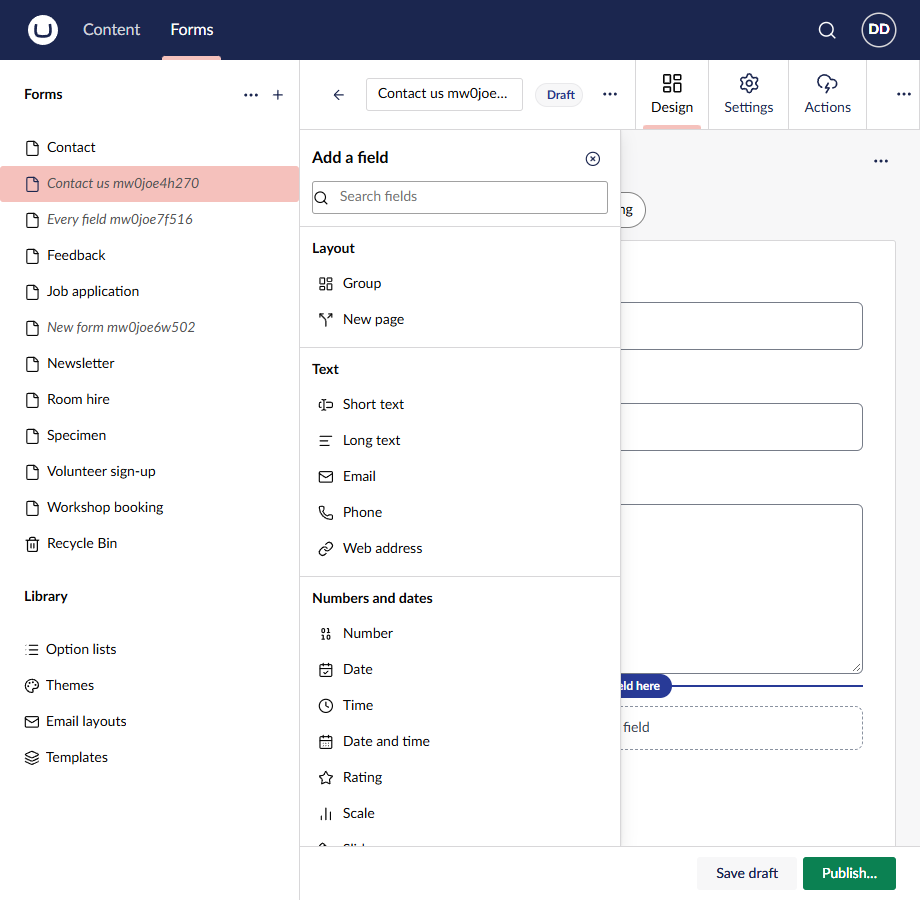
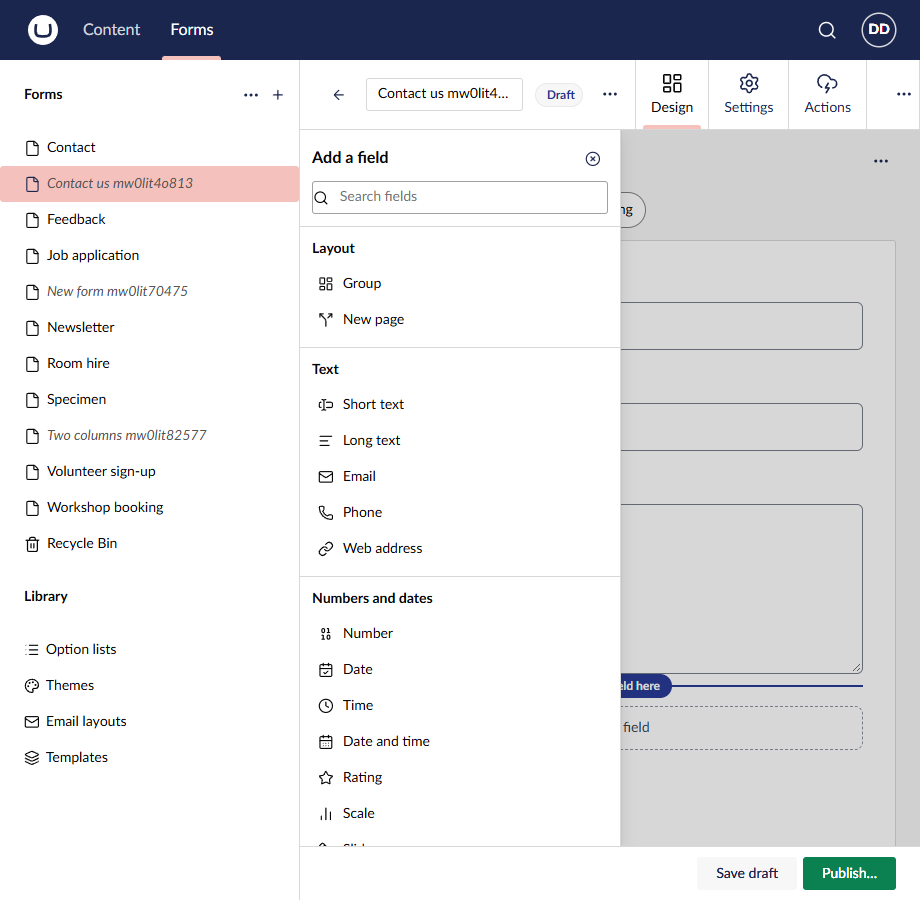
docs(designer): the 9.3 review's reader findings and tamper round
The review records what a reader of the diff found and how each was
fixed, the tamper round in a clone, and the shots the fixes changed;
ADR-0168 and the tests' guide say how the palette, labels, pages
without fields and the delete toast now behave.

diff --git a/docs/ux/review-9.3.md b/docs/ux/review-9.3.md
@@ -19,7 +19,7 @@ made through the APIs.
 | [a new form](review-9.3/empty-form-1440.png) | one sentence pointing to the palette and to pasting questions, Add field, and Send |
 | [pasting questions](review-9.3/paste-1440.png) · [the result](review-9.3/pasted-1440.png) | one line per question, the guessed types in a table before anything is added; the five fields, the last one selected |
 | [an empty later page](review-9.3/empty-page-1440.png) | the new page selected with its Duplicate and Delete, its own sentence, Send and Back |
-| [the contact form](review-9.3/designer-1440.png) · [a field selected](review-9.3/selected-1440.png) | the default theme on a white sheet, the steps, the width switch; the selected field's outline and its two tools |
+| [the contact form](review-9.3/designer-1440.png) · [a field selected](review-9.3/selected-1440.png) · [in two columns](review-9.3/selected-columns-1440.png) | the default theme on a white sheet, the steps, the width switch; the selected field's outline and its two tools |
 | [an insert point](review-9.3/insert-point-1440.png) | "Add a field here" on the line between two fields, on hover and on focus |
 | [a label in place](review-9.3/label-in-place-1440.png) | the label's box where the label was, its text chosen |
 | [the canvas's "…"](review-9.3/menu-1440.png) | Undo and Redo with their shortcuts, off while there is nothing to undo |
@@ -28,7 +28,7 @@ made through the APIs.
 | [the palette folded](review-9.3/palette-rail-1440.png) | the rail with its expand button and search; the canvas takes the room, and "Narrowed to fit" goes |
 | [Delete with Undo](review-9.3/delete-undo-1440.png) | the toast, and the selection on the next field |
 | [every field: choices](review-9.3/sink-choices-1440.png) · [rows](review-9.3/sink-rows-1440.png) · [files](review-9.3/sink-files-1440.png) · [a repeatable group](review-9.3/sink-repeater-1440.png) | two columns whose labels, help and controls line up; the drop frame and the pad as visitors with JavaScript see them; the group's first row with its own fields |
-| [at 920 px](review-9.3/designer-920.png) · [the palette over the canvas](review-9.3/palette-over-920.png) | the narrowest workspace: the canvas alone, the palette opened from Add field with the insert point it will fill |
+| [at 920 px](review-9.3/designer-920.png) · [the palette over the canvas](review-9.3/palette-over-920.png) | the narrowest workspace: the canvas alone; the palette opened from Add field over a scrim, with the insert point it will fill |
 | [dark](review-9.3/designer-dark-1440.png) · [high contrast](review-9.3/designer-high-contrast-1440.png) | Umbraco's two other themes around the visitor's white sheet |
 | [the gallery](review-9.3/gallery-1440.png) | a template drawn by the same preview as the canvas |
 
@@ -39,9 +39,9 @@ made through the APIs.
   none.
 - **The bundled detector** (`impeccable detect --json`) on the canvas, a canvas field, their styles, the palette, the paste dialog,
   the Design view and the preview: `[]` for each.
-- **The journeys** of `designer.spec.ts`: a form of three pages built with the mouse, five fields from a pasted list, and the
-  narrowest workspace with its skip link, its palette over the canvas and Delete with Undo; the gallery's journeys in
-  `library.spec.ts`.
+- **The journeys** of `designer.spec.ts`: a form of three pages built with the mouse, five fields from a pasted list, fields
+  side by side each selected by a click, and the narrowest workspace with its skip link, its palette over the canvas and
+  Delete with Undo; the gallery's journeys in `library.spec.ts`.
 - **The themes' specs** lay the server's sink out in the default and the bootstrap5 theme and check that fields side by side share
   their rows (the finding below).
 
@@ -85,6 +85,36 @@ Kept as they are:
 | — | the insert point fades in over 120 ms with a strong ease-out, and not at all for reduced motion | it appears on every hover between fields, tens of times a minute: fast, and only opacity |
 | — | selecting, editing a label in place, switching widths and pages: no motion | keyboard-heavy actions repeated all day; animation would make them feel late |
 | — | the toast is Umbraco's own | the backoffice's notifications move as Umbraco's do |
+
+## A reader's review
+
+A reader who had not built the step read its diff for defects. Each finding below was traced in the code, fixed and given a
+test:
+
+| Finding | What was done |
+| --- | --- |
+| The delete toast's Undo took back whatever came last: a delete, then Ctrl+D, then Undo removed the duplicate and left the field deleted | the toast's Undo takes back its delete only while that is still the last change, and the next change closes the toast |
+| The theme's new start alignment reached the canvas's control layer, which then had no height in a group of two columns | the layer covers its field whatever a theme aligns the parts by; a journey selects both fields of a two-column group by a click ([the shot](review-9.3/selected-columns-1440.png)) |
+| F2 on a heading without text hid the field's button and left nothing to edit or focus | a heading without text is not edited in place, and an edit where no label shows ends at once |
+| Deleting a page's last field left the selection on a group the canvas doesn't draw, and the focus on nothing | the selection is let go and the focus goes to Add field; a page with more than one group, or a titled one, shows its groups |
+| Closing the palette over the canvas, or folding the palette, dropped the focus, and with it the view's shortcuts | Esc, Close and a click beside the palette give the focus back to what opened it; folding puts it on the rail |
+| Tab from the palette over the canvas went on to controls lying under it | the canvas is out of reach while the palette lies on it, under a light scrim ([the shot](review-9.3/palette-over-920.png)) |
+| A label written for screen readers only was edited inside its one-pixel box | it shows while it is edited |
+| The edit box started from and wrote the default text while the canvas showed another culture's | it starts from and writes back the text the canvas shows |
+| The paste dialog's help never reached screen readers through UUI's box | the dialog uses the browser's own box with its label and help ([the shot](review-9.3/paste-1440.png)) |
+| A canvas or gallery preview that couldn't be loaded showed a loader for ever | each says so; the canvas offers Try again |
+| A canvas put back in the page stopped measuring its width; each image read made another media repository | both fixed |
+
+## The tamper round
+
+Each check was tampered with in a throwaway clone, and a named test had to fail: 18 changes to the designer's code against its
+Vitest files (four first slipped through and their tests now name the value: a selected field's `aria-current`, a slider's start
+between two steps as near, the 50 pasted lines, an import of the views without `from`), 6 to the canvas endpoint against its
+integration tests and the permission matrix (three first did not compile and were written again so that they did), and 6
+built into the client against the journeys and the themes' specs. Holding a theme's parts to their own heights first slipped
+through in bootstrap5, whose lists keep their height in a stretched wrapper; the themes' specs now also hold an email box
+beside a long text to a box's height, which both themes would stretch. The canvas's controls losing their height under a
+theme's alignment made the two-column journey fail, as the reader had expected.
 
 ## Left for later steps
 

diff --git a/docs/decisions/0168-the-canvas-draws-with-the-elements-views.md b/docs/decisions/0168-the-canvas-draws-with-the-elements-views.md
@@ -74,16 +74,21 @@ For the theme:
   IA 5.1 is updated to say so.
 - **Widths.** Desktop 960 px, Tablet 768 px and Phone 375 px are the form's own widths; with less room the form reflows, never
   scaled, and "Narrowed to fit" says so (IA 5.1). The chosen width is kept per browser.
-- **The palette** stays beside the canvas in a view wider than 700 px and folds to a rail by its own button; up to 700 px it opens
-  over the canvas from Add field or an insert point, and Esc closes it. The narrowest workspace, 620 px, lies in that range:
+- **The palette** stays beside the canvas in a view wider than 700 px and folds to a rail by its own button, which takes the
+  focus; up to 700 px it opens over the canvas from Add field or an insert point, the canvas out of reach until it closes, and
+  Esc, Close or a click beside it close it and give the focus back to what opened it. The narrowest workspace, 620 px, lies in that range:
   Umbraco's own header keeps the view from getting narrower, so a threshold below 620 px would never be met. The palette's fold to a
   rail while an element is selected (IA 5.1, between 620 and 1024 px) comes with the inspector in 9.4, which it makes room for.
   Recently used keeps the last three types per browser.
 - **Pasted questions** become fields, one per line (up to 50), each with the type its words suggest in English or German (an email
   address, a phone number, "How many…", a yes-or-no question…) and shown in a table before they are added in one undoable step.
-- **Inline labels.** Double-click or F2 edits a label in place; Enter keeps it, Escape puts the old one back, and an empty label
-  leaves the field as it was.
-- **Keyboard.** Delete (with an Undo toast), Ctrl+D, Ctrl+Z, Ctrl+Y and Esc work now; 9.3c adds the moves and the `?` overlay. The
+- **Inline labels.** Double-click or F2 edits a label in place, in the culture the canvas shows it in, a label written for
+  screen readers only showing while it is edited; Enter keeps it, Escape puts the old one back, and an empty label leaves the
+  field as it was. Where no label shows (a heading without text), the edit ends at once.
+- **A page without fields** shows one sentence in place of its one group while that group has no title or text of its own, and
+  its groups once it has more; a selection left on a group the canvas doesn't draw is let go, and the focus goes to Add field.
+- **Keyboard.** Delete (with an Undo toast, whose Undo takes back that delete only while it is the last change), Ctrl+D,
+  Ctrl+Z, Ctrl+Y and Esc work now; 9.3c adds the moves and the `?` overlay. The
   skip link past the palette is a button, since Umbraco's router takes a link's click for a move to another place.
 
 ## Consequences

diff --git a/tests/README.md b/tests/README.md
@@ -894,12 +894,16 @@ inert, under a button that selects it and an insert point; Duplicate and Delete 
 kept when drawn again; its label edited in place; a note for a field visitors don't see; a repeatable group's first
 row with its own fields) and the canvas (steps, the page in the default theme, the groups' and pages' buttons, a new
 form's and an empty page's sentences, an image's two notes, After sending without anything that runs, the widths and
-the menu, and the requests it passes on). `palette/palette.test.ts` holds the palette's search, groups, recently used
-types, modes and the paste dialog; `new-elements.test.ts` new fields, groups and pages, aliases and the types pasted
+the menu, and the requests it passes on; a label for screen readers only shown while edited, an edit that ends where no
+label shows, a page's groups once it has more than one or a titled one, and the focus given to Add field for what it
+doesn't draw). `palette/palette.test.ts` holds the palette's search, groups, recently used types, modes and the paste
+dialog with its label and help; `new-elements.test.ts` new fields, groups and pages, aliases and the types pasted
 questions suggest in English and German; `form-design.view.test.ts` the Design view through a stand-in workspace: picks
 from the palette at the right place, refusals said, New page, labels in place, delete with Ctrl+Z and Ctrl+Y, Ctrl+D,
 Delete and Esc, Add page, pasted questions, the width kept per browser, the media an image needs, and the width up to
-which the palette opens over the canvas. `drawing.test.ts` finds no other drawing of a field: only the canvas and the
+which the palette opens over the canvas; the toast's Undo taking back its delete only while it is the last change, a
+selection let go with the focus on Add field, a label edited in the canvas's culture, the canvas inert under the palette
+with Esc and a click beside it giving the focus back, and a look that can't be read with Try again. `drawing.test.ts` finds no other drawing of a field: only the canvas and the
 preview import the views, only the models and the canvas's label finder name a field's classes, and the gallery shows
 a template with the preview.
 
